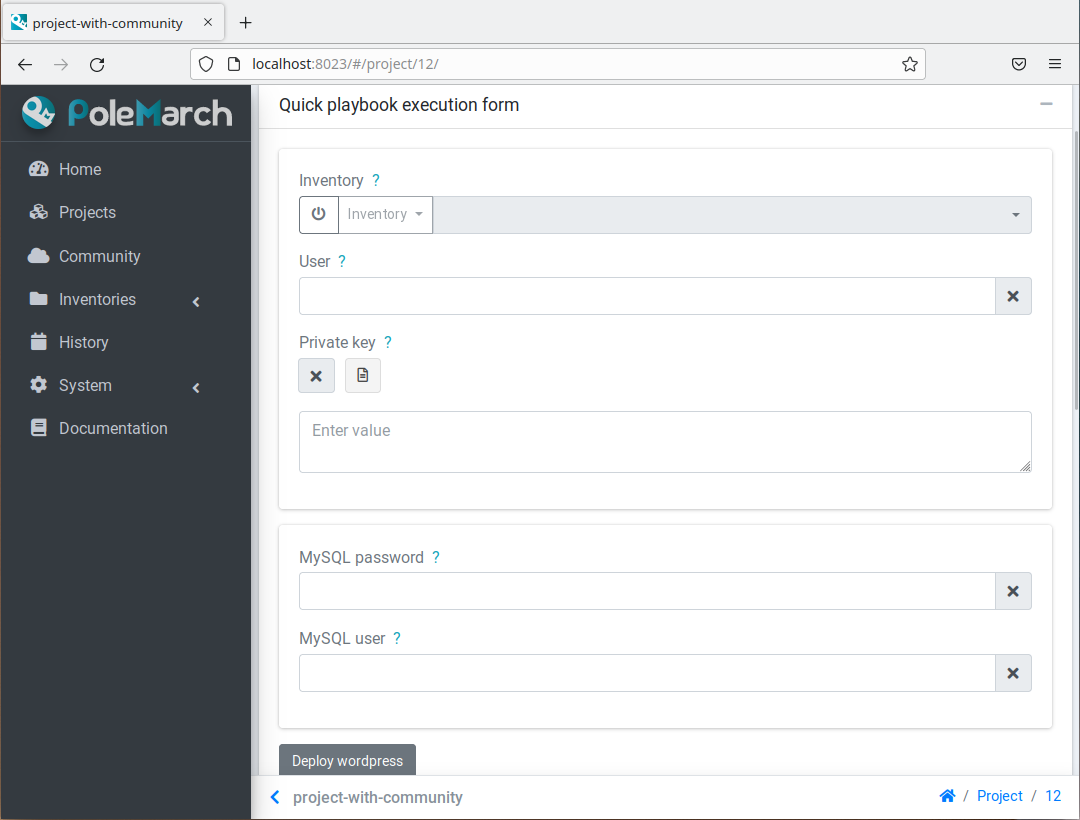
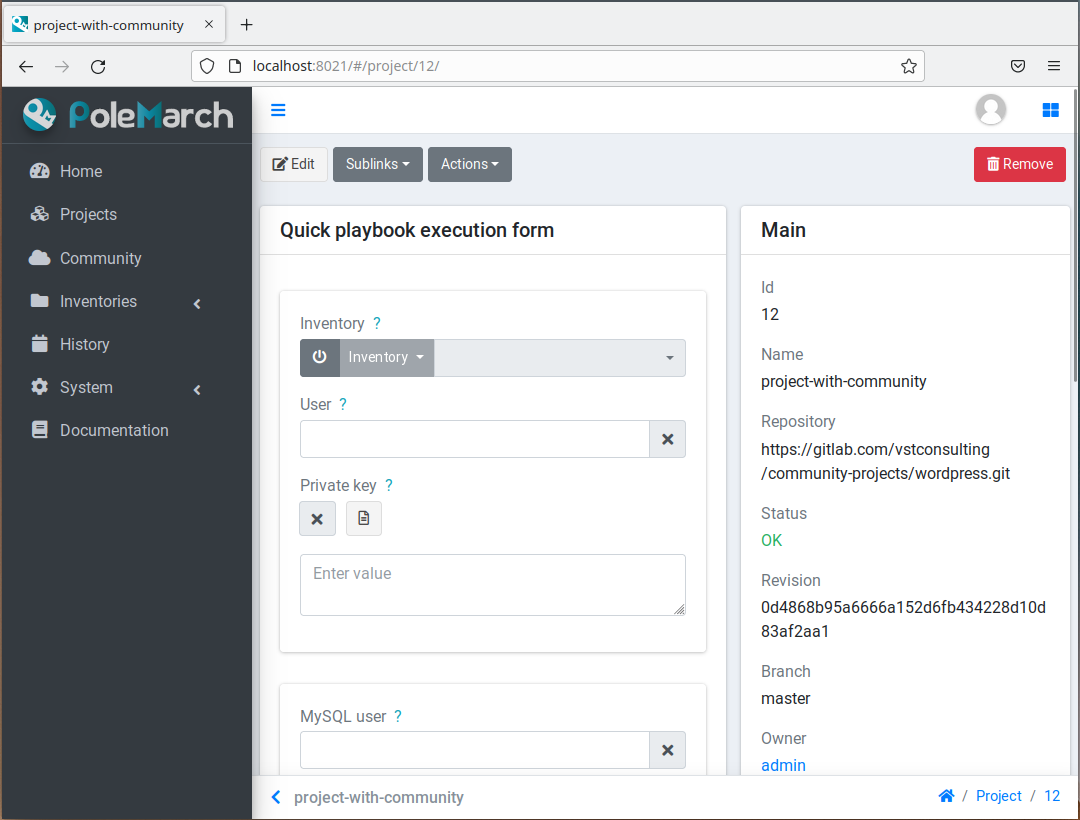
Feature: Reorganize cards in Model-OneProject.

diff --git a/frontend_src_new/project/detail/RunPlaybook.vue b/frontend_src_new/project/detail/RunPlaybook.vue
@@ -1,32 +1,30 @@
 <template>
-    <div v-if="executeData" class="col-12">
-        <Card :title="$t('Quick playbook execution form')">
-            <ModelFields
-                :editable="true"
-                :data="mainData"
-                :model="AnsibleModule"
-                :fields-groups="[{ title: '', fields: ['inventory', 'user', 'private_key'] }]"
-                @set-value="({ field, value }) => $set(mainData, field, value)"
-            />
-            <ModelFields
-                :editable="true"
-                :data="argsData"
-                :model="ArgsModel"
-                @set-value="({ field, value }) => $set(argsData, field, value)"
-            />
-            <div class="execute-btns">
-                <button
-                    v-for="{ playbookName, title, help } in buttons"
-                    :key="playbookName"
-                    :title="help"
-                    type="button"
-                    class="btn btn-secondary"
-                    @click="executePlaybook(playbookName)"
-                >
-                    {{ title }}
-                </button>
-            </div>
-        </Card>
+    <div v-if="executeData">
+        <ModelFields
+            :editable="true"
+            :data="mainData"
+            :model="AnsibleModule"
+            :fields-groups="[{ title: '', fields: ['inventory', 'user', 'private_key'] }]"
+            @set-value="({ field, value }) => $set(mainData, field, value)"
+        />
+        <ModelFields
+            :editable="true"
+            :data="argsData"
+            :model="ArgsModel"
+            @set-value="({ field, value }) => $set(argsData, field, value)"
+        />
+        <div class="execute-btns">
+            <button
+                v-for="{ playbookName, title, help } in buttons"
+                :key="playbookName"
+                :title="help"
+                type="button"
+                class="btn btn-secondary"
+                @click="executePlaybook(playbookName)"
+            >
+                {{ title }}
+            </button>
+        </div>
     </div>
 </template>
 
@@ -34,12 +32,9 @@
     export default {
         name: 'RunPlaybook',
         components: {
-            Card: spa.components.Card,
             ModelFields: spa.components.page.ModelFields,
         },
-        props: {
-            page: { type: Object, required: true },
-        },
+        mixins: [spa.fields.base.BaseFieldMixin],
         data() {
             return {
                 AnsibleModule: this.$app.modelsResolver.get('AnsibleModule'),
@@ -63,7 +58,7 @@
                 });
             },
             executeData() {
-                const data = this.page.instance._data.execute_view_data;
+                const data = this.value;
                 if (!data || !data.playbooks) {
                     return null;
                 }
@@ -105,7 +100,8 @@
 </script>
 
 <style scoped>
-    .execute-btns .btn + .btn {
-        margin-left: 0.5rem;
+    .execute-btns .btn {
+        margin-right: 0.5rem;
+        margin-bottom: 0.5rem;
     }
 </style>

diff --git a/frontend_src_new/project/detail/index.js b/frontend_src_new/project/detail/index.js
@@ -1,29 +1,31 @@
+import './style.scss';
+
 /** @vue/component */
 import RunPlaybook from './RunPlaybook.vue';
 
 const ProjectDetailViewMixin = {
     computed: {
-        beforeFieldsGroupsComponent() {
-            return RunPlaybook;
-        },
         fieldsGroups() {
             const groups = [
                 {
-                    title: '',
-                    fields: [
-                        'id',
-                        'name',
-                        'repository',
-                        'status',
-                        'revision',
-                        'branch',
-                        'owner',
-                        'execute_view_data',
-                    ],
+                    title: 'Main',
+                    wrapperClasses: 'col-md-5',
+                    fields: ['id', 'name', 'repository', 'status', 'revision', 'branch', 'owner'],
                 },
             ];
             if (this.data.readme_content || this.data.notes) {
-                groups.unshift({ title: 'Info', fields: ['readme_content', 'notes'] });
+                groups.push({
+                    title: 'Info',
+                    wrapperClasses: this.data.execute_view_data?.playbooks ? 'col-md-12' : 'col-md-7',
+                    fields: ['readme_content', 'notes'],
+                });
+            }
+            if (this.data.execute_view_data?.playbooks) {
+                groups.push({
+                    title: 'Quick playbook execution form',
+                    wrapperClasses: 'col-md-7',
+                    fields: ['execute_view_data'],
+                });
             }
             return groups;
         },
@@ -31,13 +33,30 @@ const ProjectDetailViewMixin = {
 };
 
 export function setupProjectDetailView() {
-    spa.signals.once('allModels.created', ({ models }) => {
-        const OneProject = models.get('OneProject');
-        OneProject.fields.get('execute_view_data').hidden = true;
-    });
-
     spa.signals.once('allViews.created', ({ views }) => {
         const detailView = views.get('/project/{id}/');
         detailView.mixins.push(ProjectDetailViewMixin);
     });
 }
+
+export class RunPlaybookField extends spa.fields.base.BaseField {
+    static format = 'run-playbook';
+    constructor(options) {
+        super(options);
+        this.readOnly = true;
+    }
+    static get mixins() {
+        return [RunPlaybook];
+    }
+}
+
+spa.signals.once('APP_CREATED', (app) => {
+    app.fieldsResolver.registerField('string', RunPlaybookField.format, RunPlaybookField);
+});
+
+spa.signals.once(`models[OneProject].fields.beforeInit`, (fields) => {
+    fields.execute_view_data = {
+        type: 'string',
+        format: RunPlaybookField.format,
+    };
+});

diff --git a/frontend_src_new/index.js b/frontend_src_new/index.js
@@ -31,4 +31,4 @@ spa.signals.once('APP_CREATED', (app) => {
 
 spa.signals.connect('app.afterInit', ({ app }) => {
     app.views.get('/group/{id}/groups/{groups_id}/hosts/').nestedQueryset = app.views.get('/host/').objects;
-})
+});

diff --git a/frontend_src_new/project/detail/style.scss b/frontend_src_new/project/detail/style.scss
@@ -1,0 +1,11 @@
+.fields-group-Main {
+  order: 2
+}
+
+.fields-group-Info {
+  order: 3;
+}
+
+.fields-group-Quick_playbook_execution_form {
+  order: 1;
+}

diff --git a/doc/gui.rst b/doc/gui.rst
@@ -161,7 +161,6 @@ As you can see, now project's status is "NEW", so we need to click the :guilabel
 to get all needed data from your GIT project.
 
 .. image:: new_screenshots/test_project_2.png
-.. image:: new_screenshots/test_project_3.png
 
 Once your project status changes to "OK", you can start working with Polemarch.
 

diff --git a/doc/index.rst b/doc/index.rst
@@ -42,9 +42,6 @@ Official site: https://polemarch.org/
 
 We also help you via:
 
-`Twitter
-<https://twitter.com/polemarchio>`_ - we post information about new releases and new features
-
 `Stack Overflow
 <https://stackoverflow.com/questions/tagged/polemarch>`_ - tag for questions about our application on Stack Overflow
 
